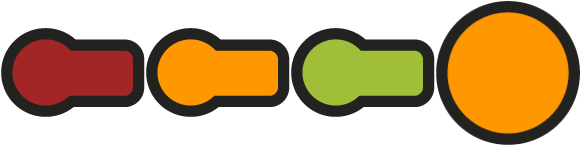
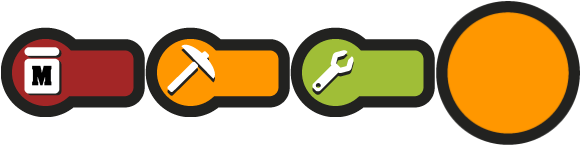
Fix UI

diff --git a/src/EarthControl.js b/src/EarthControl.js
@@ -47,7 +47,7 @@ class EarthControl {//extends Phaser.GameObjects.Sprite {
 
         //Botón para descargar rocas
         this.countLanz = 0;
-        this.unloadRocketBtn = scene.add.image(870, 665, "lanzaderaPuerta").setDepth(4)
+        this.unloadRocketBtn = scene.add.image(861, 660, "lanzaderaPuertaRecursos").setDepth(4)
         .setInteractive()
         .on('pointerdown', () =>  this.tweenLanzPuertaIn())//this.Unload(this.unloadRocketBtn)
         .on('pointerup', () => this.Highlight(this.unloadRocketBtn, true) )
@@ -598,7 +598,7 @@ class EarthControl {//extends Phaser.GameObjects.Sprite {
         this.scene.tweens.add({
             targets: this.lanzPuertaOut,
             x: this.lanzPuertaOut.x+220,
-            duration: 500,
+            duration: 700,
             ease: 'Cubic.easeOut',
             repeat: 0,
             yoyo: false,

diff --git a/src/SceneGame.js b/src/SceneGame.js
@@ -181,6 +181,7 @@ class SceneGame extends Phaser.Scene {
         this.load.image("fondoTierra", directory+"ui_T_bck.png" );
         this.load.image("lanzadera", directory+"ui_T_Lanzadera.png" );
         this.load.image("lanzaderaPuerta", directory+"ui_T_Lanzadera_door.png" );
+        this.load.image("lanzaderaPuertaRecursos", directory+"ui_T_Lanzadera_door_2.png" );
         this.load.image("lanzaderaCountdown", directory+"ui_T_countdown.png" );
         this.load.spritesheet("payloads", directory+"ui_T_payloads.png", { frameWidth: 52, frameHeight: 37 });
         this.load.image("paqueteriaBase", directory+"ui_T_Paqueteria_contadores.png" );

diff --git a/src/SceneLogos.js b/src/SceneLogos.js
@@ -49,6 +49,7 @@ class SceneLogos extends Phaser.Scene {
         this.load.image("fondoTierra", directory+"ui_T_bck.png" );
         this.load.image("lanzadera", directory+"ui_T_Lanzadera.png" );
         this.load.image("lanzaderaPuerta", directory+"ui_T_Lanzadera_door.png" );
+        this.load.image("lanzaderaPuertaRecursos", directory+"ui_T_Lanzadera_door_2.png" );
         this.load.image("lanzaderaCountdown", directory+"ui_T_countdown.png" );
         /*this.load.image("cargaMateriales", directory+"ui_T_payload_materiales.png" );
         this.load.image("cargaRocas", directory+"ui_T_payload_rocas.png" );
